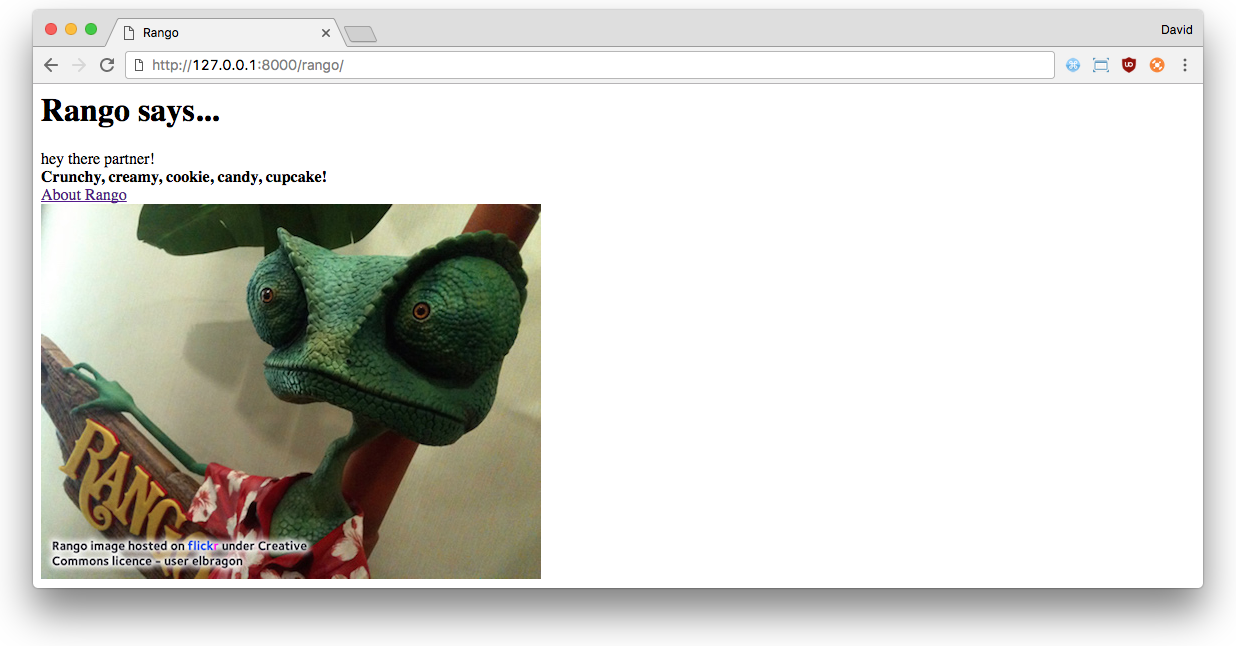
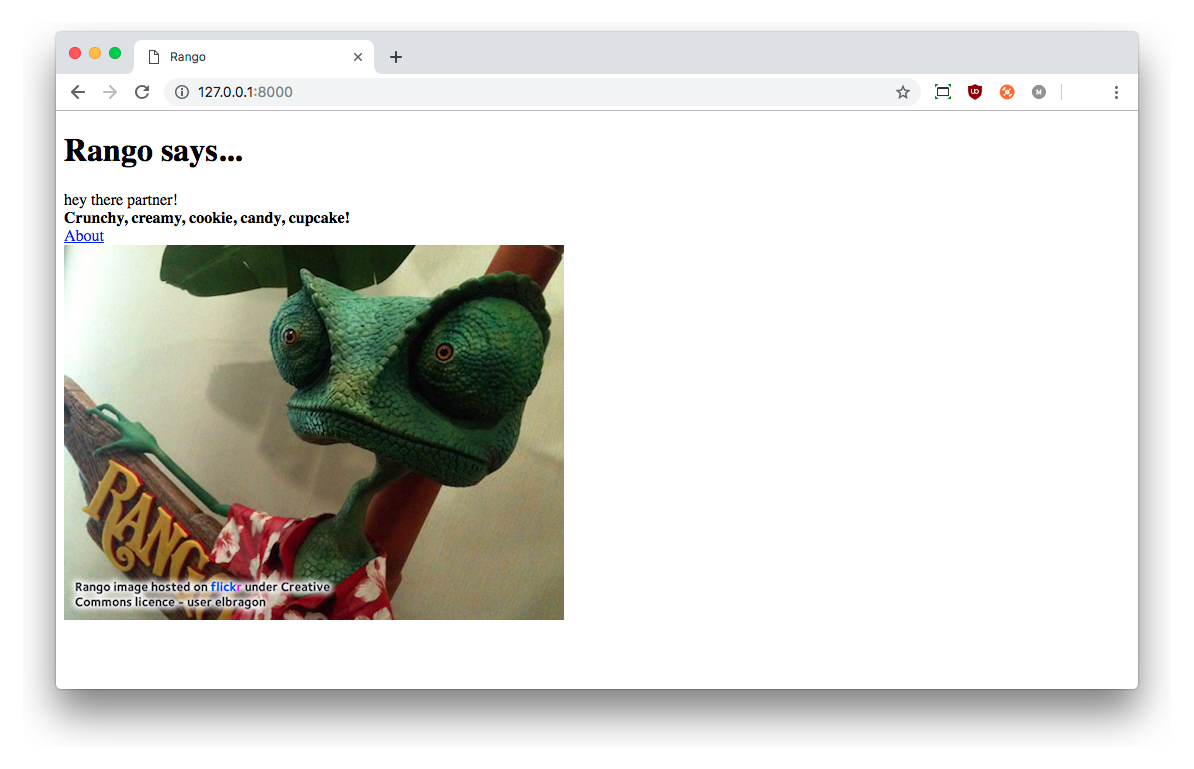
Updated Chapter 4

diff --git a/manuscript/chapter4-templates-static-media.md b/manuscript/chapter4-templates-static-media.md
@@ -57,19 +57,19 @@ W> The road to hell is paved with hard coded paths. [Hard-coding paths](http://e
 ### Dynamic Paths
 A better solution is to make use of built-in Python functions to work out the path of your `templates` directory automatically. This way, an absolute path can be obtained regardless of where you place your Django project's code. This in turn means that your project becomes more *portable.* 
 
-At the top of your `settings.py` file, there is a variable called `BASE_DIR`. This variable stores the path to the directory in which your project's `settings.py` module is contained. This is obtained by using the special Python `__file__` attribute, which is [set to the absolute path of your settings module](http://stackoverflow.com/a/9271479). The call to `os.path.dirname()` then provides the reference to the absolute path of the directory containing the `settings.py` module. Calling `os.path.dirname()` again removes another layer, so that `BASE_DIR` contains `<workspace>/tango_with_django_project/`. You can see this process in action, if you are curious, by adding the following lines to your `settings.py` file.
+At the top of your `settings.py` file, there is a variable called `BASE_DIR`. This variable stores the path to the directory in which your project's `settings.py` module is contained. This is obtained by using the special Python `__file__` attribute, which is [set to the path of your settings module](http://stackoverflow.com/a/9271479). Using this as a parameter to `os.path.abspath()` guarantees the *absolute path* to the `settings.py` module. The call to `os.path.dirname()` then provides the reference to the absolute path of the *directory containing* the `settings.py` module. Calling `os.path.dirname()` again removes another directory layer, so that `BASE_DIR` then points to `<workspace>/tango_with_django_project/`. If you are curious, you can see how this works by adding the following lines to your `settings.py` file.
 
 {lang="python",linenos=off}
 	print(__file__)
 	print(os.path.dirname(__file__))
-	print(os.path.dirname(os.path.dirname(__file__)))
+	print(os.path.dirname(os.path.dirname(os.path.abspath(__file__))))
 
-Having access to the value of `BASE_DIR` makes it easy for you to reference other aspects of your Django project. As such, we can now create a new variable called `TEMPLATE_DIR` that will reference your new `templates` directory. We can make use of the `os.path.join()` function to join up multiple paths, leading to a variable definition like the example below.
+Having access to the value of `BASE_DIR` makes it easy for you to reference other aspects of your Django project. Using the `BASE_DIR` variable, we can now create a new variable called `TEMPLATE_DIR` that will reference your new `templates` directory. We can make use of the `os.path.join()` function to join up multiple paths, leading to a variable definition like the example below. Make sure you put this underneath the definition of `BASE_DIR`!
 
 {lang="python",linenos=off}
 	TEMPLATE_DIR = os.path.join(BASE_DIR, 'templates')
 
-Here we make use of `os.path.join()` to mash together the `BASE_DIR` variable and `'templates'`, which would yield `<workspace>/tango_with_django_project/templates/`. This means we can then use our new `TEMPLATE_DIR` variable to replace the hard coded path we defined earlier in `TEMPLATES`. Update the `DIRS` key/value pairing to look like the following.
+Here we make use of `os.path.join()` to join (concatenate) together the `BASE_DIR` variable and `'templates'`, which would yield `<workspace>/tango_with_django_project/templates/`. This means we can then use our new `TEMPLATE_DIR` variable to replace the hard coded path we defined earlier in `TEMPLATES`. Update the `DIRS` key/value pairing to look like the following.
 
 {lang="python",linenos=off}
 	'DIRS': [TEMPLATE_DIR, ]
@@ -119,7 +119,7 @@ You can then update the `index()` view function as follows. Check out the inline
 	def index(request):
 	    # Construct a dictionary to pass to the template engine as its context.
 	    # Note the key boldmessage is the same as {{ boldmessage }} in the template!
-	    context_dict = {'boldmessage': "Crunchy, creamy, cookie, candy, cupcake!"}
+	    context_dict = {'boldmessage': 'Crunchy, creamy, cookie, candy, cupcake!'}
 	    
 	    # Return a rendered response to send to the client.
 	    # We make use of the shortcut function to make our lives easier.
@@ -237,7 +237,7 @@ With these minor changes in place, start the Django development server once more
 {id="fig-ch4-rango-site-with-pic"}
 ![Our first Rango template, complete with a picture of Rango the chameleon.](images/ch4-rango-site-with-pic.png)
 
-T> ### Templates and `<!DOCTYPE>`
+T> ### Always put `<!DOCTYPE>` First!
 T> When creating the HTML templates, always ensure that the [`DOCTYPE` declaration](http://www.w3schools.com/tags/tag_doctype.asp) appears on the **first line**. If you put the `{% load staticfiles %}` template command first, then whitespace will be added to the rendered template before the `DOCTYPE` declaration. This whitespace will lead to your HTML markup [failing validation](https://validator.w3.org/).
 
 T> ### Loading other Static Files
@@ -259,7 +259,7 @@ T> 	    </head>
 T> 	
 T> 	    <body>
 T> 	        <!-- Image -->
-T> 	        <img src="{% static "images/rango.jpg" %}" alt="A chameleon lizard called Rango"  />
+T> 	        <img src="{% static "images/rango.jpg" %}" alt="Picture of Rango"  />
 T> 	    </body>
 T> 	
 T> 	</html>
@@ -267,9 +267,9 @@ T>
 T> Static files you reference will obviously need to be present within your `static` directory. If a requested file is not present or you have referenced it incorrectly, the console output provided by Django's development server will show a [`HTTP 404` error](https://en.wikipedia.org/wiki/HTTP_404). Try referencing a non-existent file and see what happens. Looking at the output snippet below, notice how the last entry's HTTP status code is `404`.
 T>
 T> {lang="text",linenos=off}
-T> 	[10/Apr/2016 15:12:48] "GET /rango/ HTTP/1.1" 200 374
-T> 	[10/Apr/2016 15:12:48] "GET /static/images/rango.jpg HTTP/1.1" 304 0
-T> 	[10/Apr/2016 15:12:52] "GET /static/images/not-here.jpg HTTP/1.1" 404 0
+T> 	[24/Mar/2019 17:05:54] "GET /rango/ HTTP/1.1" 200 366
+T> 	[24/Mar/2019 17:05:55] "GET /static/images/rango.jpg HTTP/1.1" 200 0
+T> 	[24/Mar/2019 17:05:55] "GET /static/images/not-here.jpg HTTP/1.1" 404 0
 T>
 T> For further information about including static media you can read through the official [Django documentation on working with static files in templates](https://docs.djangoproject.com/en/2.0/howto/static-files/#staticfiles-in-templates).
 
@@ -360,16 +360,16 @@ X> ### Exercises
 X>
 X> Give the following exercises a go to reinforce what you've learnt from this chapter.
 X> 
-X> * Convert the about page to use a template as well, using a template called `about.html`.
-X> * Within the new `about.html` template, add a picture stored within your project's static files.
-X> * On the about page, include a line that says, `This tutorial has been put together by <your-name>`.
-X> * In your Django project directory, create a new directory called `media`, download a picture of a cat and save it to the `media` directory as `cat.jpg`. 
-X> * In your **about page**, add in the `<img>` tag to display the picture of the cat, to ensure that your media is being served correctly. Keep the static image of Rango in your index page so that your app has working examples of both static and media files.
+X> * Convert the about page to use a template as well, using a template called `about.html`. In the new template's header, keep `Rango says...`, and on the line underneath, have the text `here is the about page.`.
+X> * Within the new `about.html` template, add a picture stored within your project's static files. You can just reuse the `rango.jpg` image you used in the index view!
+X> * On the about page, include a line that says `This tutorial has been put together by <your-name>`.
+X> * In your Django project directory, create a new directory called `media`, download a JPEG image of a cat and save it to the `media` directory as `cat.jpg`. 
+X> * In your **about page**, add in the `<img>` tag to display the picture of the cat, to ensure that your media is being served correctly. *Keep the static image of Rango in your index page* so that your about page has working examples of both static and media files.
 
 T> ### Static and Media Files
 T> Remember: static files, as the name implies, do not change. These files form the core components of your website. Media files are user defined; and as such, they may change often!
 T>
-T> An example of a static file could be a stylesheet file (css), which determines the appearance of your app's webpages. An example of a media file could be a user profile image, which is uploaded by the user when they create an account on your app.
+T> An example of a static file could be a stylesheet file (CSS), which determines the appearance of your app's webpages. An example of a media file could be a user profile image, which is uploaded by the user when they create an account on your app.
 
 
 I> ### Tests
